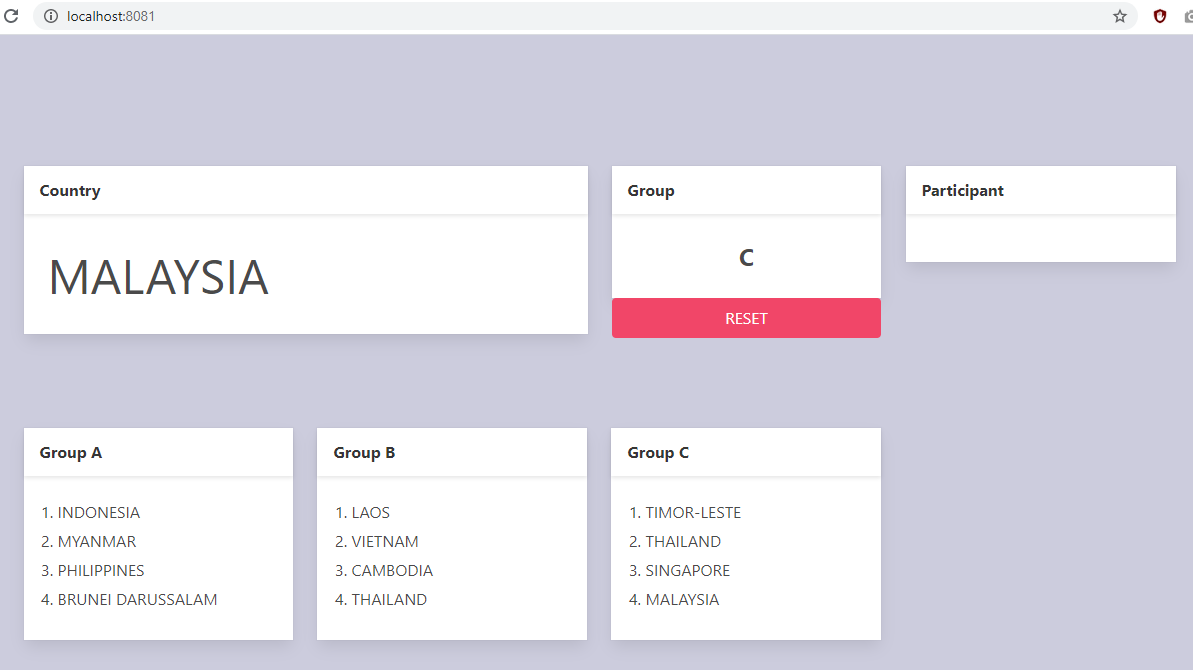
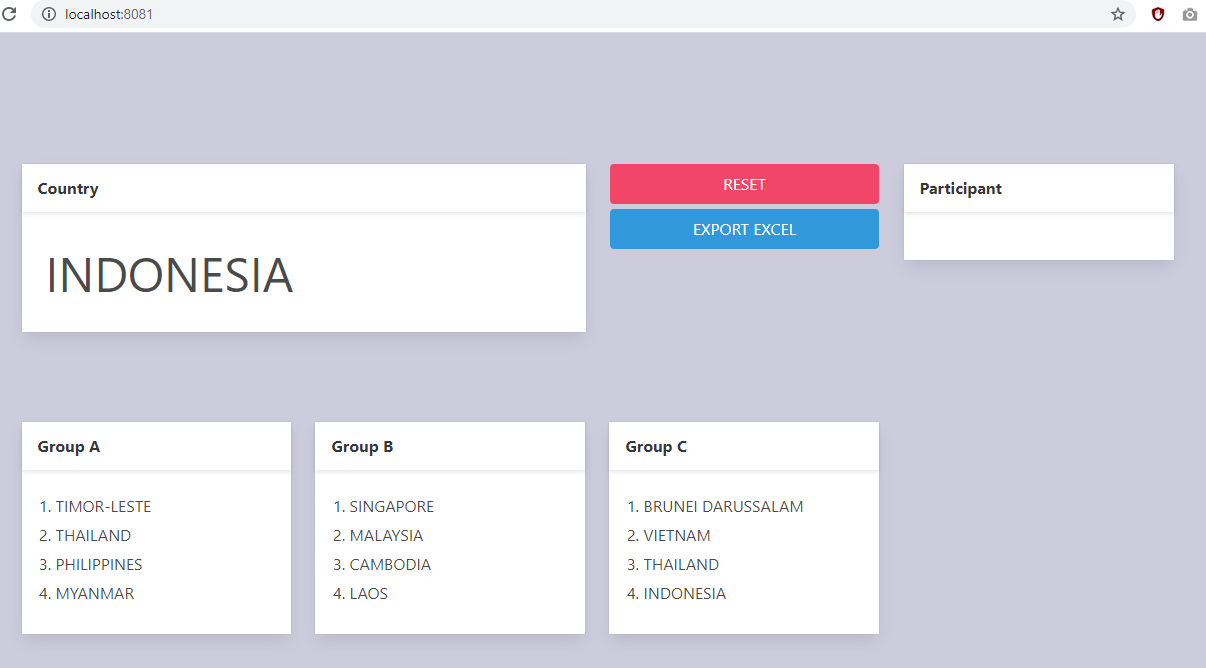
export to excel

diff --git a/src/App.vue b/src/App.vue
@@ -14,7 +14,7 @@
 						</div>
 					</div>
 					<div class="column is-4">
-						<div class="card">
+						<div class="card" v-if="!is_reset">
 							<div class="card-header">
 								<div class="card-header-title">Group</div>
 							</div>
@@ -22,9 +22,13 @@
 								<span class="is-size-4"><b>{{ group_member[group_index].group }}</b></span>
 							</div>
 						</div>
+						<div v-else>
+							<a id="export_excel"></a>
+							<button class="button is-fullwidth is-danger" @click="reset()" style="margin-bottom: 5px;"><span class="is-size-8">RESET</span></button>
+							<button class="button is-fullwidth is-info" @click="download()"><span class="is-size-8">EXPORT EXCEL</span></button>
+						</div>
 						<button class="button is-fullwidth is-info" v-if="!is_next && !is_reset" @click="random()"><span class="is-size-8">RANDOM</span></button>
 						<button class="button is-fullwidth is-success" v-if="is_next && !is_reset" @click="next()"><span class="is-size-8">NEXT</span></button>
-						<button class="button is-fullwidth is-danger" v-if="is_reset" @click="reset()"><span class="is-size-8">RESET</span></button>
 					</div>
 				</div>
 				<div class="columns" id="result-wrapper">
@@ -67,6 +71,8 @@
 </template>
 
 <script>
+	import XLSX from 'xlsx';
+	
 	export default {
 		data: function()
 		{
@@ -133,6 +139,17 @@
 				this.group_filter.country_list = country_list
 				this.group_filter.group_index = group_index
 			},
+			setRecord: function ()
+			{
+				var group_member = this.group_filter.group_member
+				
+				var record = [{}]
+				
+				group_member.map((data) => { return 'GROUP' + data.group }).forEach(function (group) { record[0][group] = group })
+				for (var i = 0; i <= this.maximum; i++) { var obj = {}; group_member.forEach(function (data) { obj['GROUP'+data.group] = data.member[i] }); record.push(obj); }
+				
+				return record
+			},
 			getIndex: function ()
 			{
 				return Math.floor(Math.random() * this.country_list.length) + 0;
@@ -169,6 +186,39 @@
 				
 				this.initGroup()
 				this.initButton()
+			},
+			download: function ()
+			{
+				var record = this.setRecord()
+				var title = Object.keys(record[0]).map((data) => { return data })
+				
+				var cells = []
+				record.forEach(function (data, index) {
+					title.map((title, i) => { var obj = { position: String.fromCharCode('A'.charCodeAt(0) + i) + (index + 1), value: data[title] }; cells[obj.position] = { v: obj.value } })
+				})
+				
+				// cells = [ A1: {v: "name"}, B1: {v: "size"}, C1: {v: "taste"}, D1: {v: "price"}, E1: {v: "remain"}, A2: {v: "rahmat karmawan"}, B2: {v: "12"}, C2: {v: "delicious"}, D2: {v: "40"}, E2: {v: "100"} ]
+			
+				let outputPos = Object.keys(cells)
+				let tmpWB = { SheetNames: ['report'], Sheets: { 'report': Object.assign({}, cells, { '!ref': outputPos[0] + ':' + outputPos[outputPos.length - 1] }) } }
+				let tmpDown = new Blob([this.s2ab(XLSX.write(tmpWB, { bookType: 'xlsx', bookSST: false, type: 'binary' } ))], { type: '' })
+				
+				
+				// DONWLOAD
+				document.getElementById('export_excel').download = 'vue_random_position.xlsx'
+				document.getElementById('export_excel').href = URL.createObjectURL(tmpDown)
+				document.getElementById('export_excel').click()
+				
+				setTimeout(() => URL.revokeObjectURL(tmpDown), 100)
+			},
+			s2ab: function (s)
+			{
+				var buf = new ArrayBuffer(s.length)
+				
+				var view = new Uint8Array(buf)
+				for (var i = 0; i !== s.length; ++i) { view[i] = s.charCodeAt(i) & 0xFF }
+				
+				return buf
 			}
 		}
 	}

diff --git a/README.md b/README.md
@@ -17,7 +17,10 @@ npm run serve
 ```
 
 buka pada halaman http://localhost:8081
-![table](https://github.com/maulana20/vue-random-position/blob/master/image/dashboard.PNG)
+![dashboard](https://github.com/maulana20/vue-random-position/blob/master/image/dashboard.PNG)
 
 jalankan random
-![table](https://github.com/maulana20/vue-random-position/blob/master/image/random.PNG)
+![random](https://github.com/maulana20/vue-random-position/blob/master/image/random.PNG)
+
+hasil export
+![excel](https://github.com/maulana20/vue-random-position/blob/master/image/excel.PNG)
